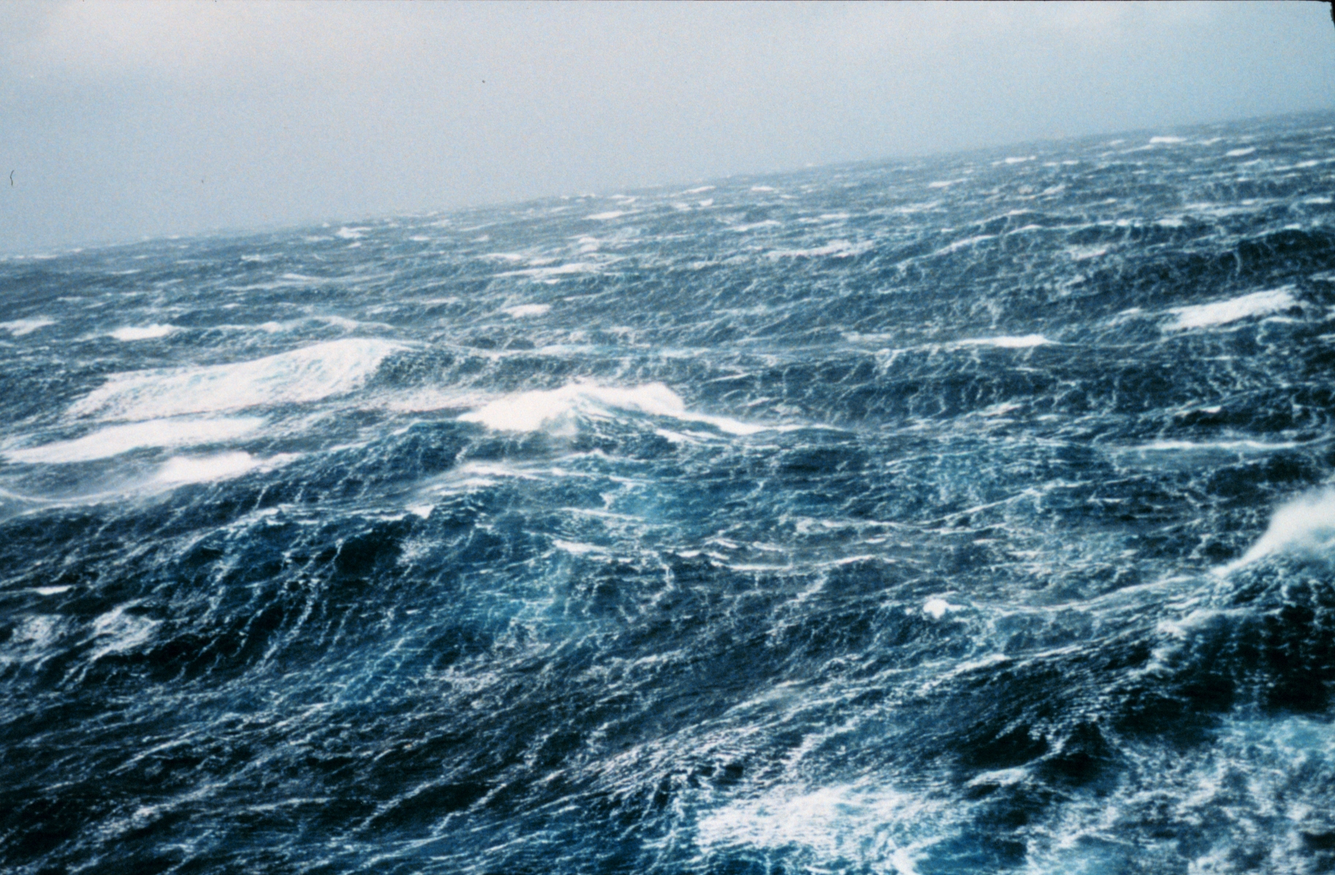
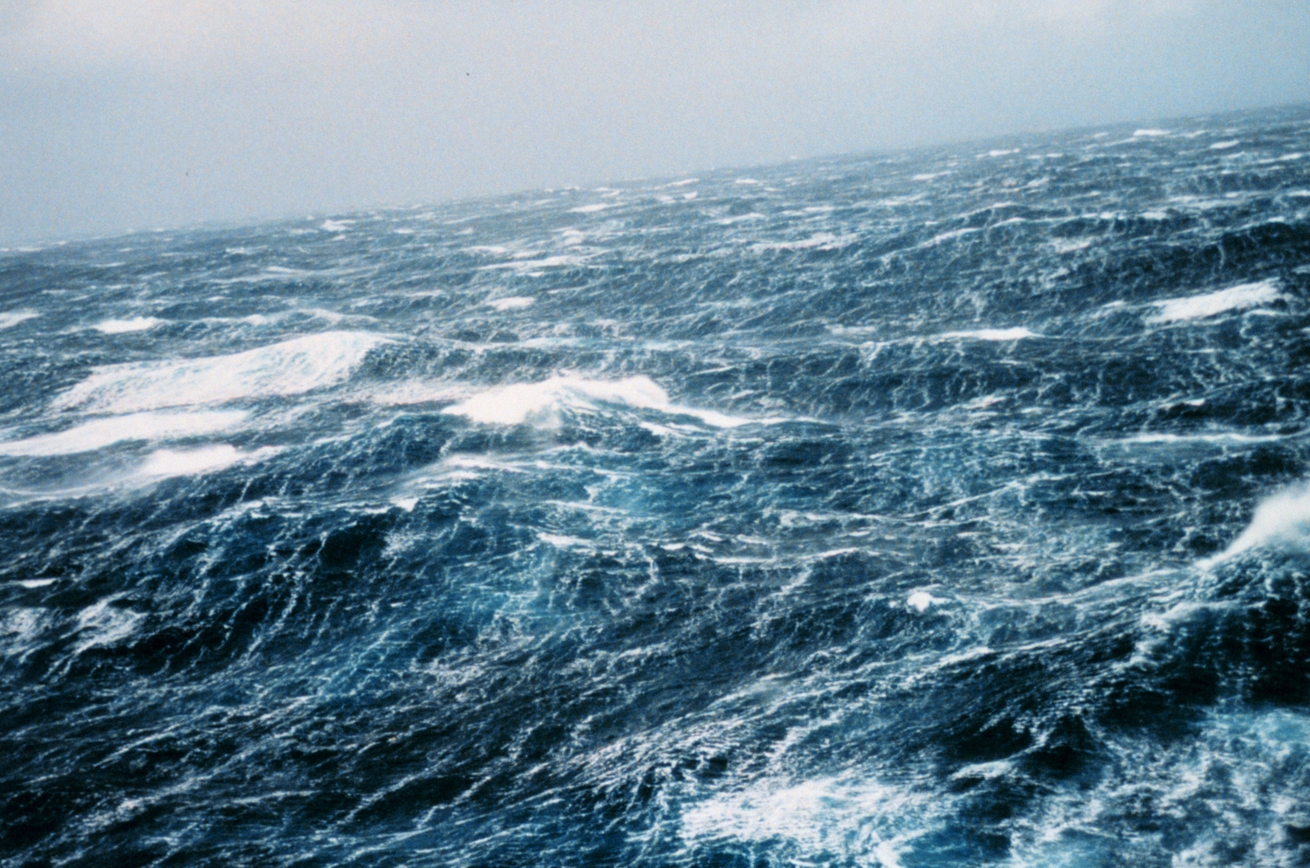
Minor image adjustments.

diff --git a/com.statoil.modelshare/WebContent/css/dialog.css b/com.statoil.modelshare/WebContent/css/dialog.css
@@ -1,10 +1,3 @@
-body {
-  padding-top: 40px;
-  padding-bottom: 40px;
-  background-color: #eee;
-  background-image: url("../images/Wea00816.jpg");
-}
-
 .form-signin {
   max-width: 330px;
   padding: 15px;
